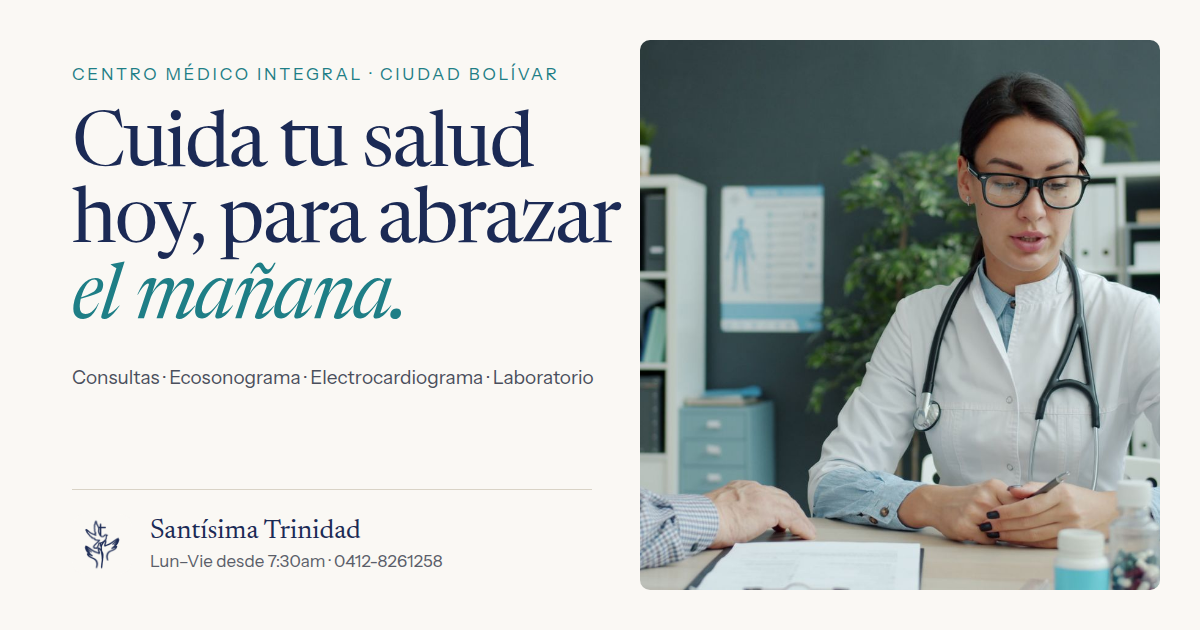
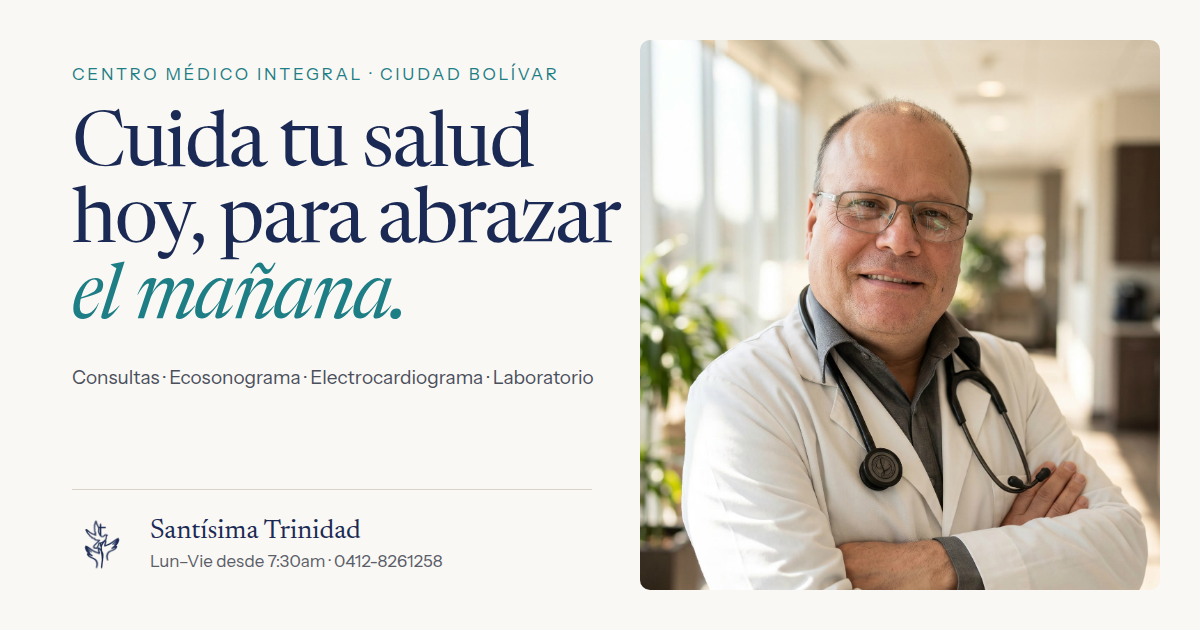
Home hero and share image: head doctor portrait
- New photo public/images/doctor.jpg (out-of-focus exit-sign glow retouched
  out of the background); replaces the stock hero photo, now removed
- HomeHero component with three layouts: centrado, protagonista, dividido;
  home uses "dividido" (the design's split variant) so the doctor is visible
  above the fold, with a "Director médico" tag
- Share image (Open Graph / Twitter) uses the portrait; alt text updated

diff --git a/src/components/home-hero.tsx b/src/components/home-hero.tsx
@@ -1,0 +1,148 @@
+import Image from "next/image";
+
+import doctor from "../../public/images/doctor.jpg";
+import eco from "../../public/images/eco.jpg";
+import lab from "../../public/images/lab.jpg";
+import casheaLogo from "../../public/images/cashea/logo.png";
+import { Eyebrow, PrimaryButton, container, serif } from "@/components/site";
+
+// Home hero. Three layouts for the head doctor's portrait; pick one in
+// src/app/page.tsx with <HomeHero variant="..." />.
+//   centrado     – the design's default: three photos, the doctor in the centre
+//   protagonista – centred copy, the doctor's photo taller than the two beside it
+//   dividido     – the design's split variant: copy left, tall portrait right
+export type HeroVariant = "centrado" | "protagonista" | "dividido";
+
+const DOCTOR_ALT = "Director médico del Centro Médico Integral Santísima Trinidad";
+
+export function HomeHero({ variant }: { variant: HeroVariant }) {
+  if (variant === "dividido") return <HeroSplit />;
+  return <HeroCentered feature={variant === "protagonista"} />;
+}
+
+function HeroCopy({ align }: { align: "center" | "left" }) {
+  const center = align === "center";
+  return (
+    <>
+      <Eyebrow>Centro Médico Integral · Ciudad Bolívar</Eyebrow>
+      <h1
+        className={`${serif} mt-[22px] leading-none tracking-[-0.025em] text-balance ${
+          center ? "text-[clamp(44px,8vw,104px)]" : "text-[clamp(44px,6.5vw,88px)]"
+        }`}
+      >
+        Cuida tu salud hoy, para abrazar <i className="text-teal">el mañana.</i>
+      </h1>
+      <p
+        className={`mt-7 text-[19px] leading-[1.55] text-pretty text-ink ${
+          center ? "mx-auto max-w-[600px]" : "max-w-[500px]"
+        }`}
+      >
+        Un centro médico donde te atienden por tu nombre. Consulta, imagen y laboratorio bajo
+        un mismo techo, para que cuidarte sea sencillo.
+      </p>
+      <div className={`mt-8 flex flex-wrap gap-3 ${center ? "justify-center" : ""}`}>
+        <PrimaryButton>Agenda por WhatsApp</PrimaryButton>
+        <a
+          href="#servicios"
+          className="rounded-lg border border-outline px-6 py-[15px] text-base text-navy hover:border-navy"
+        >
+          Conoce los servicios
+        </a>
+      </div>
+      <div className="mt-[26px]">
+        <a
+          href="#cashea"
+          className={`inline-flex flex-wrap items-center gap-2.5 text-sm text-ink hover:text-navy ${
+            center ? "justify-center" : ""
+          }`}
+        >
+          <span>Aceptamos</span>
+          <Image src={casheaLogo} alt="Cashea" className="h-6 w-auto" sizes="97px" />
+          <span>· paga en cuotas sin intereses</span>
+        </a>
+      </div>
+    </>
+  );
+}
+
+function DoctorTag() {
+  return (
+    <figcaption className="absolute bottom-3 left-3 rounded-md bg-cream/90 px-4 py-3 shadow-[0_8px_24px_rgba(27,42,85,0.12)] backdrop-blur-sm sm:bottom-4 sm:left-4">
+      <span className="block font-serif text-[19px] leading-tight text-navy">Director médico</span>
+      <span className="mt-0.5 block text-[11px] tracking-[0.14em] text-teal">SANTÍSIMA TRINIDAD</span>
+    </figcaption>
+  );
+}
+
+function HeroCentered({ feature }: { feature: boolean }) {
+  const side = "w-full rounded-md object-cover hidden md:block h-[340px]";
+  return (
+    <section className={`${container} pt-10`}>
+      <div className="hero-stagger mx-auto max-w-[1000px] text-center">
+        <HeroCopy align="center" />
+      </div>
+      <div
+        className={`hero-media mt-16 grid grid-cols-1 gap-4 md:grid-cols-[minmax(0,1fr)_minmax(0,1.5fr)_minmax(0,1fr)] ${
+          feature ? "md:items-end" : ""
+        }`}
+      >
+        <Image
+          src={lab}
+          alt="Muestras de laboratorio"
+          className={`${side} ${feature ? "md:h-[300px]" : ""}`}
+          sizes="(min-width: 768px) 30vw, 100vw"
+        />
+        {feature ? (
+          <figure className="relative">
+            <Image
+              src={doctor}
+              alt={DOCTOR_ALT}
+              priority
+              className="h-[420px] w-full rounded-md object-cover object-[50%_15%] md:h-[460px]"
+              sizes="(min-width: 768px) 45vw, 100vw"
+            />
+            <DoctorTag />
+          </figure>
+        ) : (
+          <Image
+            src={doctor}
+            alt={DOCTOR_ALT}
+            priority
+            className="h-[300px] w-full rounded-md object-cover object-[50%_12%] sm:h-[340px]"
+            sizes="(min-width: 768px) 45vw, 100vw"
+          />
+        )}
+        <Image
+          src={eco}
+          alt="Ecosonograma"
+          className={`${side} ${feature ? "md:h-[300px]" : ""}`}
+          sizes="(min-width: 768px) 30vw, 100vw"
+        />
+      </div>
+    </section>
+  );
+}
+
+function HeroSplit() {
+  return (
+    <section
+      className={`${container} grid grid-cols-1 items-center gap-10 pt-8 md:grid-cols-2 md:gap-14`}
+    >
+      <div className="hero-stagger">
+        <HeroCopy align="left" />
+      </div>
+      <div className="hero-media rounded-md">
+        <figure className="relative">
+          <Image
+            src={doctor}
+            alt={DOCTOR_ALT}
+            priority
+            className="h-[460px] w-full rounded-md object-cover object-[50%_10%] md:h-[600px]"
+            sizes="(min-width: 768px) 50vw, 100vw"
+          />
+          <DoctorTag />
+        </figure>
+      </div>
+    </section>
+  );
+}

diff --git a/src/app/page.tsx b/src/app/page.tsx
@@ -4,8 +4,6 @@ import consult from "../../public/images/consult.jpg";
 import consult2 from "../../public/images/consult2.jpg";
 import ecg from "../../public/images/ecg.jpg";
 import eco from "../../public/images/eco.jpg";
-import hero from "../../public/images/hero.jpg";
-import lab from "../../public/images/lab.jpg";
 import lab2 from "../../public/images/lab2.jpg";
 import senior from "../../public/images/senior.jpg";
 import vials from "../../public/images/vials.jpg";
@@ -14,6 +12,7 @@ import casheaLogo from "../../public/images/cashea/logo.png";
 
 import Link from "next/link";
 
+import { HomeHero } from "@/components/home-hero";
 import { BioanalisisLogo, OdontologiaLogo } from "@/components/service-logo";
 import {
   Eyebrow,
@@ -129,7 +128,7 @@ export default function Home() {
       <SiteHeader />
 
       <main>
-        <Hero />
+        <HomeHero variant="dividido" />
         <Highlights />
         <Services />
         <Modules />
@@ -147,50 +146,6 @@ export default function Home() {
 }
 
 /* ---------- sections ---------- */
-
-function Hero() {
-  const photo = "h-[260px] w-full rounded-md object-cover sm:h-[340px]";
-  return (
-    <section className={`${container} pt-10`}>
-      <div className="hero-stagger mx-auto max-w-[1000px] text-center">
-        <Eyebrow>Centro Médico Integral · Ciudad Bolívar</Eyebrow>
-        <h1
-          className={`${serif} mt-[22px] text-[clamp(44px,8vw,104px)] leading-none tracking-[-0.025em] text-balance`}
-        >
-          Cuida tu salud hoy, para abrazar <i className="text-teal">el mañana.</i>
-        </h1>
-        <p className="mx-auto mt-7 max-w-[600px] text-[19px] leading-[1.55] text-pretty text-ink">
-          Un centro médico donde te atienden por tu nombre. Consulta, imagen y laboratorio
-          bajo un mismo techo, para que cuidarte sea sencillo.
-        </p>
-        <div className="mt-8 flex flex-wrap justify-center gap-3">
-          <PrimaryButton>Agenda por WhatsApp</PrimaryButton>
-          <a
-            href="#servicios"
-            className="rounded-lg border border-outline px-6 py-[15px] text-base text-navy hover:border-navy"
-          >
-            Conoce los servicios
-          </a>
-        </div>
-        <div className="mt-[26px]">
-          <a
-            href="#cashea"
-            className="inline-flex flex-wrap items-center justify-center gap-2.5 text-sm text-ink hover:text-navy"
-          >
-            <span>Aceptamos</span>
-            <Image src={casheaLogo} alt="Cashea" className="h-6 w-auto" sizes="97px" />
-            <span>· paga en cuotas sin intereses</span>
-          </a>
-        </div>
-      </div>
-      <div className="hero-media mt-16 grid grid-cols-1 gap-4 md:grid-cols-[minmax(0,1fr)_minmax(0,1.5fr)_minmax(0,1fr)]">
-        <Image src={lab} alt="Muestras de laboratorio" className={`${photo} hidden md:block`} sizes="(min-width: 768px) 30vw, 100vw" />
-        <Image src={hero} alt="Médica en consulta con paciente" priority className={photo} sizes="(min-width: 768px) 45vw, 100vw" />
-        <Image src={eco} alt="Ecosonograma" className={`${photo} hidden md:block`} sizes="(min-width: 768px) 30vw, 100vw" />
-      </div>
-    </section>
-  );
-}
 
 function Highlights() {
   return (

diff --git a/assets/brand/og.html b/assets/brand/og.html
@@ -12,8 +12,8 @@ h1 i{color:#1e7e86}
 .foot img{width:60px;height:60px}
 .name{font-family:'Newsreader',serif;font-size:27px;line-height:1.1}
 .meta{font-size:17px;color:#5a5e69;margin-top:4px}
-.photo{padding:40px 40px 40px 0}
-.photo img{width:100%;height:100%;object-fit:cover;object-position:60% center;border-radius:10px}
+.photo{padding:40px 40px 40px 0;height:630px;box-sizing:border-box}
+.photo img{display:block;width:100%;height:100%;object-fit:cover;object-position:50% 9%;border-radius:10px}
 </style></head><body>
 <div class="og">
   <div class="copy">
@@ -25,5 +25,5 @@ h1 i{color:#1e7e86}
       <div><div class="name">Santísima Trinidad</div><div class="meta">Lun–Vie desde 7:30am · 0412-8261258</div></div>
     </div>
   </div>
-  <div class="photo"><img src="../../public/images/hero.jpg" alt=""></div>
+  <div class="photo"><img src="../../public/images/doctor.jpg" alt=""></div>
 </div></body></html>
